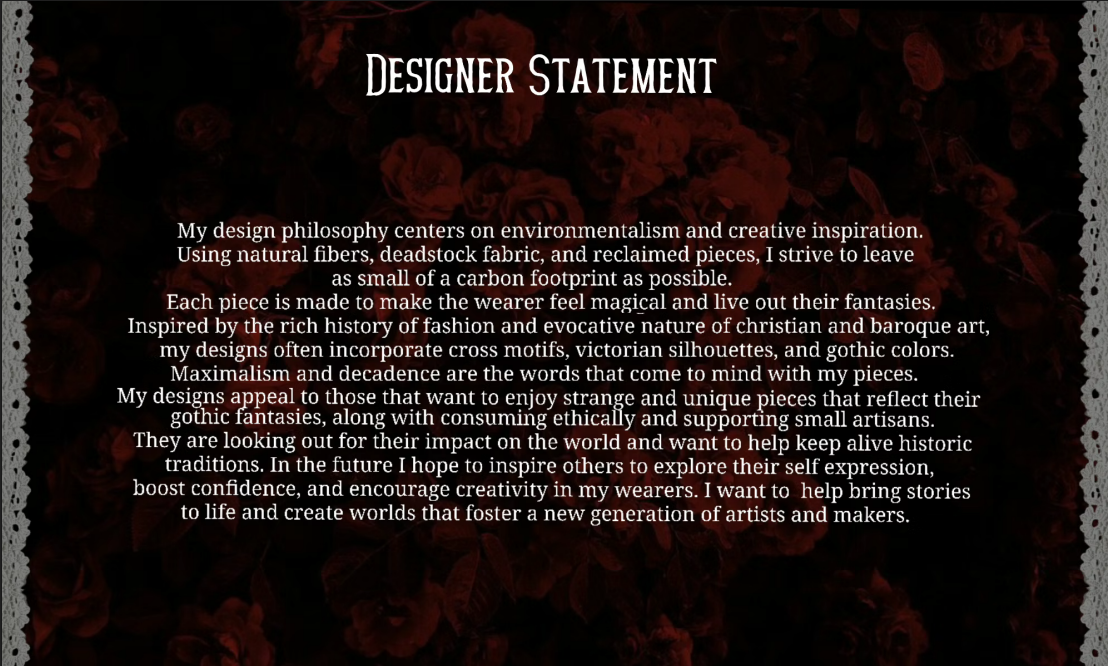
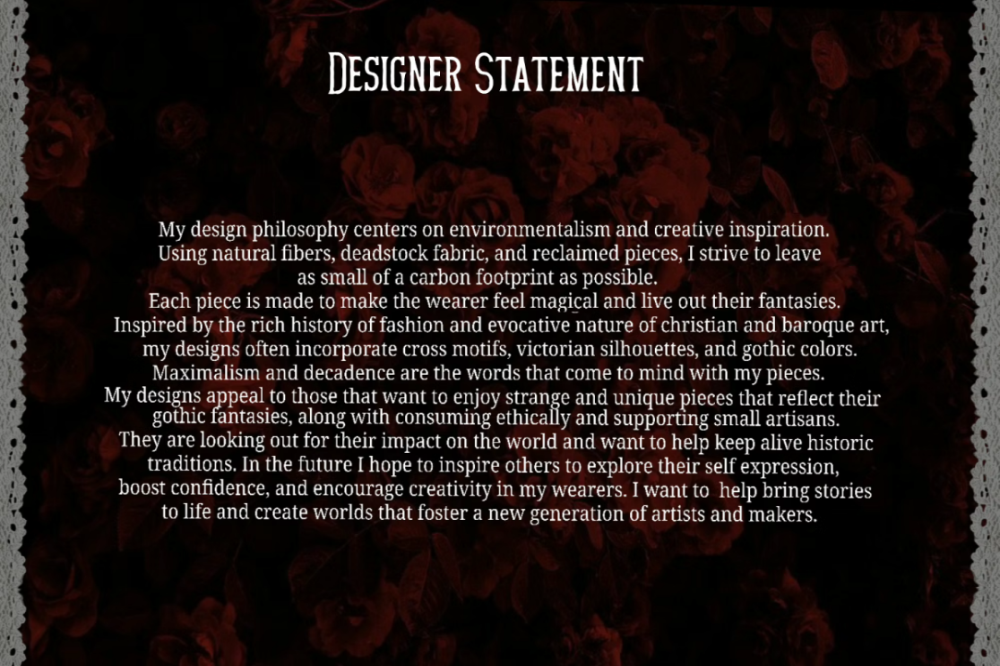
Added modal, made imgs wiggle, made dropdown not stacked

diff --git a/Index.html b/Index.html
@@ -19,13 +19,15 @@
         <header>
             <!-- navigation -->
             <div class="topNav">
-                <a href="Index.html">Home</a>
+                <a class="tab" href="Index.html">Home</a>
             
-                <div class="dropdown navItem"><a href="#projects">Projects</a>
-                    <div class="dropdown-content"><a href="nocturnalsymphonypresentation.html">Nocturnal Symphony Presentation</a></div>
-                    <div class="dropdown-content"><a href="NoctSymGallery.html">Nocturnal Symphony Gallery</a></div>
+                <div class="dropdown navItem"><a class="tab" href="#projects">Projects</a>
+                    <div class="dropdown-content">
+                        <a href="nocturnalsymphonypresentation.html">Nocturnal Symphony Presentation</a> 
+                        <a href="NoctSymGallery.html">Nocturnal Symphony Gallery</a>
+                    </div>
                 </div>
-                <a href="#contact">Contact</a>
+                <a class="tab" href="#contact">Contact</a>
             </div>
         </header>
 

diff --git a/nocturnalsymphonypresentation.html b/nocturnalsymphonypresentation.html
@@ -72,8 +72,15 @@
                     </div>
                     
                 </div>
+                <img src="Assets/NoctSympresent.png" data-bs-toggle="modal" data-bs-target="#myModal" class="modalImg img-fluid" alt="slide 1" width="49%">
+                    <div class="modal fade" id="myModal">
+                        <div class="modal-dialog modal-dialog-centered">
+                            <div class="modal-content">
+                                <img src="Assets/NoctSympresent.png" width="150%">
+                            </div>
+                        </div>
+                    </div>
                 <div class="row">
-                    <br>
                 </div>
                 <div class="row">
                     <div class="col-md-6">

diff --git a/stylesheet.css b/stylesheet.css
@@ -22,7 +22,7 @@ body {
     padding-left: 5%;
     padding-right: 5%;
 }
-.topNav a{
+.tab {
     color: white;
     
 }
@@ -67,4 +67,7 @@ body {
 .desc {
     padding: 15px;
     text-align: center;
+}
+.modalImg:hover {
+    transform: scale(1.05);
 }
